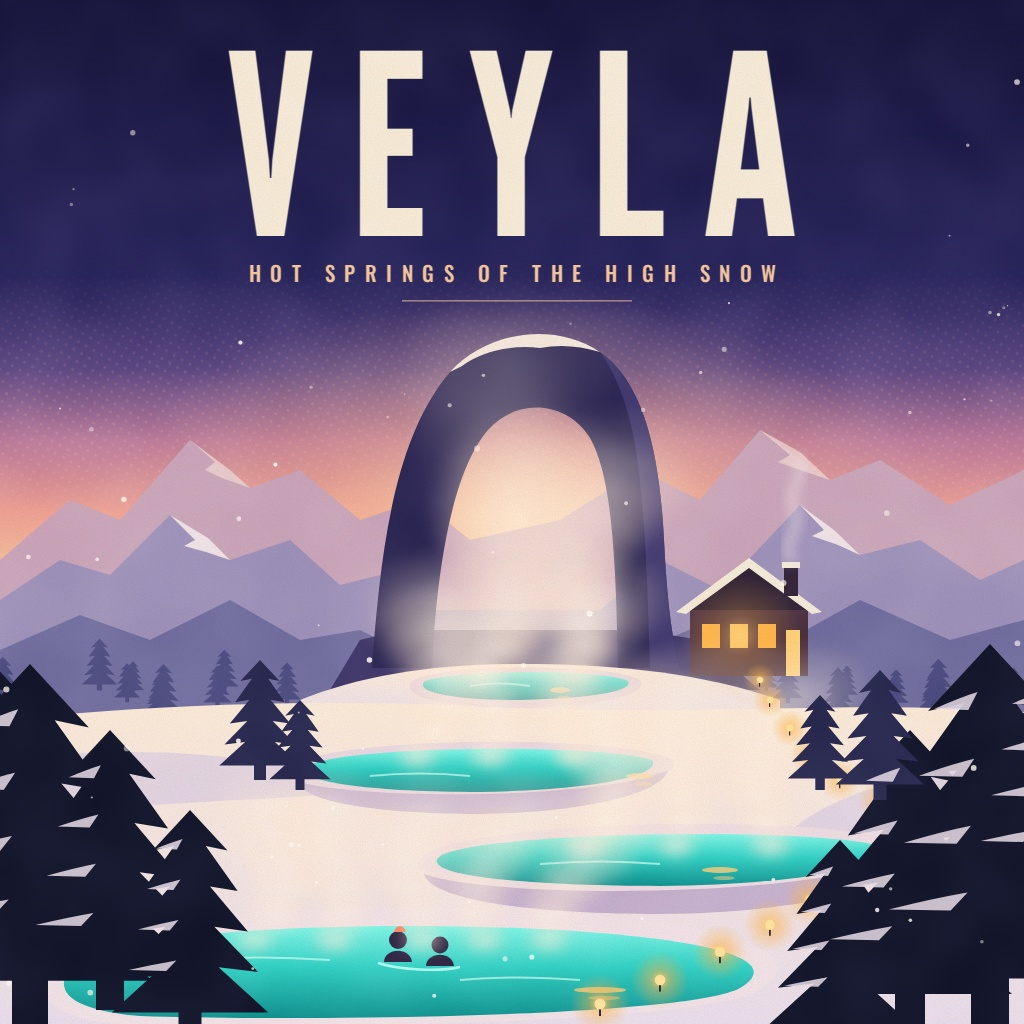
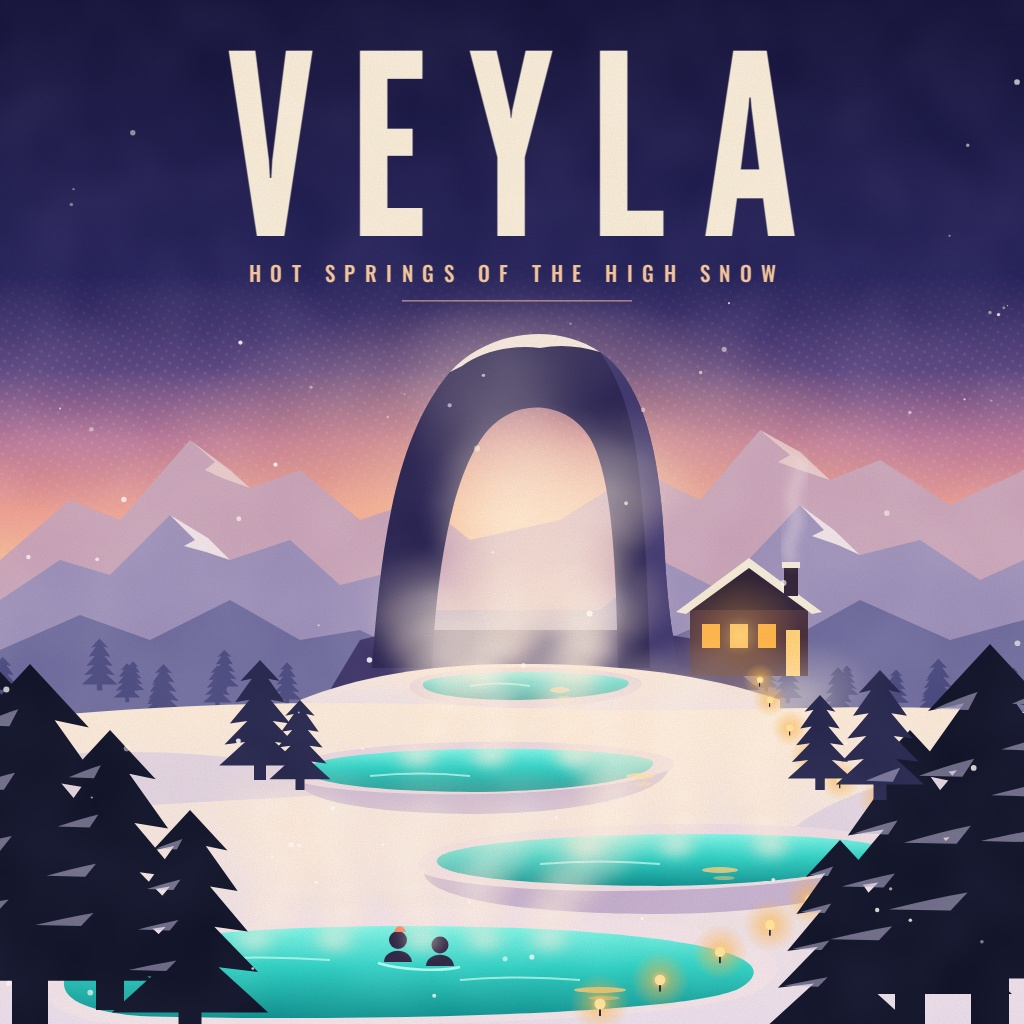
Soften snow on foreground pines; final render

diff --git a/page/index.html b/page/index.html
@@ -196,7 +196,7 @@
   fg.filter(f => f[2] > 150).forEach(([x, b, h]) => {
     for (let i = 1; i <= 4; i++) {
       const y = b - h + h * 0.88 * i / 5, ww = h * 0.34 * (0.35 + 0.65 * i / 5);
-      el('path', { d: `M${x - ww * 0.9} ${y - 2} Q ${x - ww * 0.5} ${y - h * 0.035} ${x - ww * 0.2} ${y - h * 0.05} L ${x - ww * 0.35} ${y - 1} Z`, fill: '#e9ddea', opacity: 0.85 }, $('pines'));
+      el('path', { d: `M${x - ww * 0.9} ${y - 2} Q ${x - ww * 0.5} ${y - h * 0.035} ${x - ww * 0.2} ${y - h * 0.05} L ${x - ww * 0.35} ${y - 1} Z`, fill: '#b9b3d6', opacity: 0.55 }, $('pines'));
     }
   });
 
